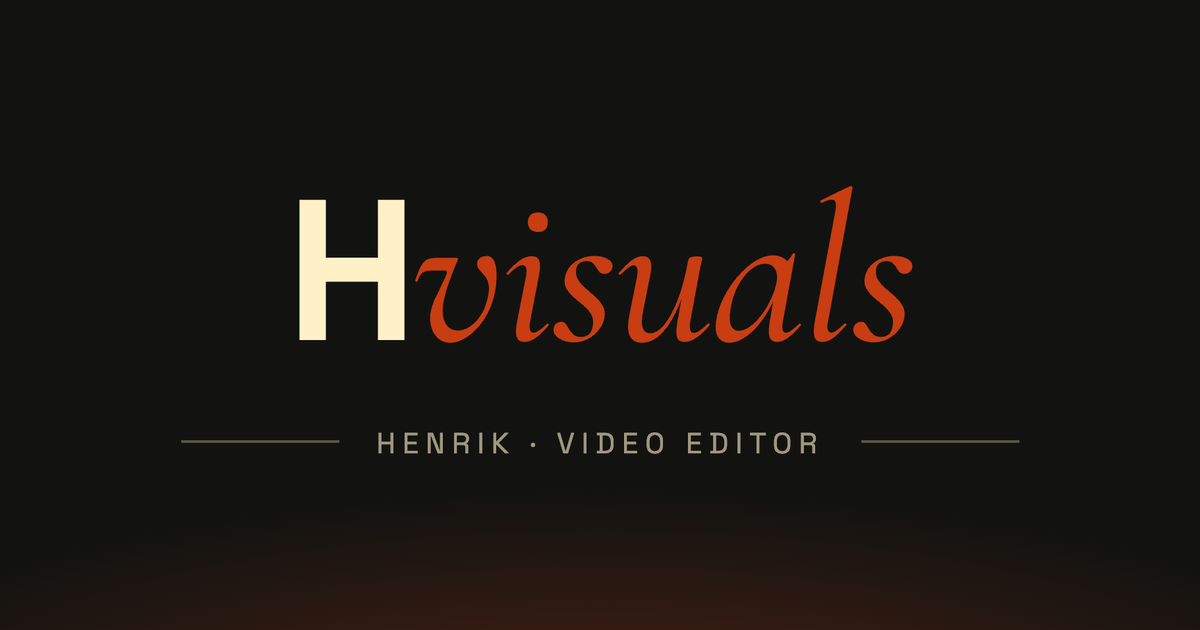
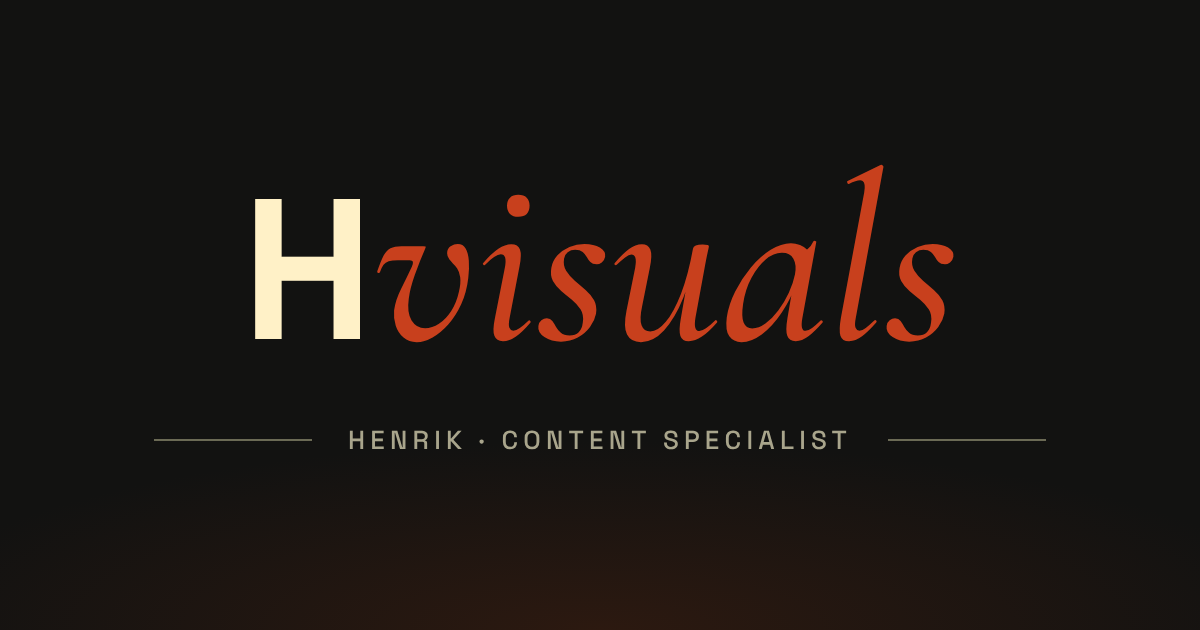
Reposition as Content Specialist: title, meta, share image, About, FAQ
Claude-Session: https://claude.ai/code/session_01DkZxYJXb8gLe1BEML1EtSt

Changed region(s): [[0.185, 0.2714, 0.8017, 0.5429], [0.1542, 0.6635, 0.8633, 0.7238], [0.4008, 0.3016, 0.4625, 0.3619]]

diff --git a/index.html b/index.html
@@ -3,21 +3,21 @@
 <head>
 <meta charset="utf-8">
 <meta name="viewport" content="width=device-width, initial-scale=1">
-<title>Henrik — Video Editor</title>
-<meta name="description" content="Turning your message into content that converts. Long-form YouTube, talking head and documentary edits for creators.">
+<title>Henrik — Content Specialist</title>
+<meta name="description" content="Turning your message into content that converts. Content strategy and editing for creators: long-form YouTube, talking head and documentary.">
 <meta property="og:type" content="website">
 <meta property="og:url" content="https://h-visuals.github.io/">
 <meta property="og:site_name" content="H-Visuals">
-<meta property="og:title" content="Henrik — Video Editor">
-<meta property="og:description" content="Turning your message into content that converts. Long-form YouTube, talking head and documentary edits for creators.">
-<meta property="og:image" content="https://h-visuals.github.io/assets/og-image.png">
+<meta property="og:title" content="Henrik — Content Specialist">
+<meta property="og:description" content="Turning your message into content that converts. Content strategy and editing for creators: long-form YouTube, talking head and documentary.">
+<meta property="og:image" content="https://h-visuals.github.io/assets/og-image.png?v=2">
 <meta property="og:image:width" content="1200">
 <meta property="og:image:height" content="630">
-<meta property="og:image:alt" content="H-Visuals — Henrik, Video Editor">
+<meta property="og:image:alt" content="H-Visuals — Henrik, Content Specialist">
 <meta name="twitter:card" content="summary_large_image">
-<meta name="twitter:title" content="Henrik — Video Editor">
-<meta name="twitter:description" content="Turning your message into content that converts. Long-form YouTube, talking head and documentary edits for creators.">
-<meta name="twitter:image" content="https://h-visuals.github.io/assets/og-image.png">
+<meta name="twitter:title" content="Henrik — Content Specialist">
+<meta name="twitter:description" content="Turning your message into content that converts. Content strategy and editing for creators: long-form YouTube, talking head and documentary.">
+<meta name="twitter:image" content="https://h-visuals.github.io/assets/og-image.png?v=2">
 <link rel="preconnect" href="https://fonts.googleapis.com">
 <link rel="preconnect" href="https://fonts.gstatic.com" crossorigin>
 <link rel="preconnect" href="https://img.youtube.com">
@@ -173,12 +173,12 @@
   </div>
   <div>
     <h2>Henrik</h2>
-    <div class="role">Video Editor &amp; Storyteller</div>
+    <div class="role">Content Specialist</div>
     <div class="bio">
       <p>I’ve had the opportunity to work with creators, entrepreneurs, and online businesses to help them turn their ideas into content that actually connects with an audience.</p>
       <p>Because creating great content isn’t just about getting views. It’s about getting your message across, building trust, and turning viewers into customers.</p>
       <p>That’s where I come in.</p>
-      <p>I help creators and businesses turn their raw footage <span class="sage">into videos that hold attention and drive action.</span></p>
+      <p>I help creators and businesses shape their ideas and raw footage <span class="sage">into content that holds attention and drives action.</span></p>
     </div>
   </div>
 </section>
@@ -190,7 +190,7 @@
     <details><summary>How long does an edit take?<span class="plus">+</span></summary><p>Seven days from footage to final cut, including revisions. Shorts and clips usually go out within 48 hours.</p></details>
     <details><summary>How many revisions do I get?<span class="plus">+</span></summary><p>Two rounds are included. In practice most videos are approved on the first cut because the story angle is agreed before I open the timeline.</p></details>
     <details><summary>What do you need from me?<span class="plus">+</span></summary><p>Raw footage, your brand assets if you have them, and a sentence on who the video is for. I handle the rest, including music licensing and captions.</p></details>
-    <details><summary>Why you over a cheaper editor?<span class="plus">+</span></summary><p>I edit for the outcome, not the runtime. Channels I've worked on reach a combined audience of over 3 million, and the edits are built around retention and conversion rather than effects for their own sake.</p></details>
+    <details><summary>Why you over a cheaper editor?<span class="plus">+</span></summary><p>I don’t just cut footage. I help shape the angle, hook and structure before the timeline opens, then edit for the outcome, not the runtime. Channels I've worked on reach a combined audience of over 3 million, and every video is built around retention and conversion rather than effects for their own sake.</p></details>
     <details><summary>How do we start?<span class="plus">+</span></summary><p>Send a message with a link to your channel. I reply within 24 hours with a short plan and a quote for the first video.</p></details>
   </div>
 </section>
